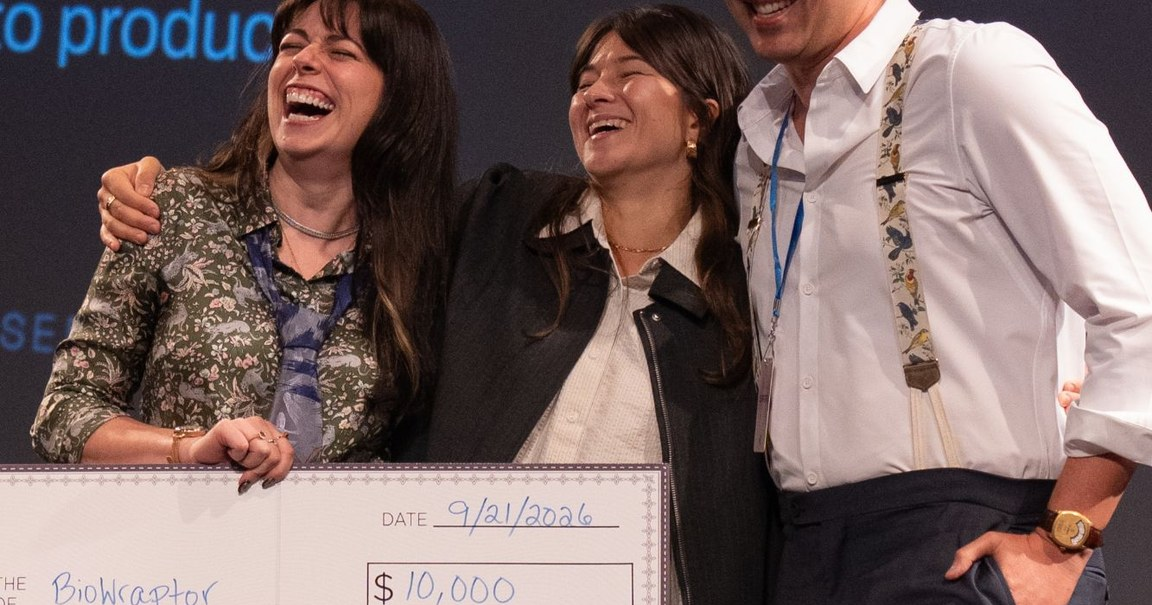
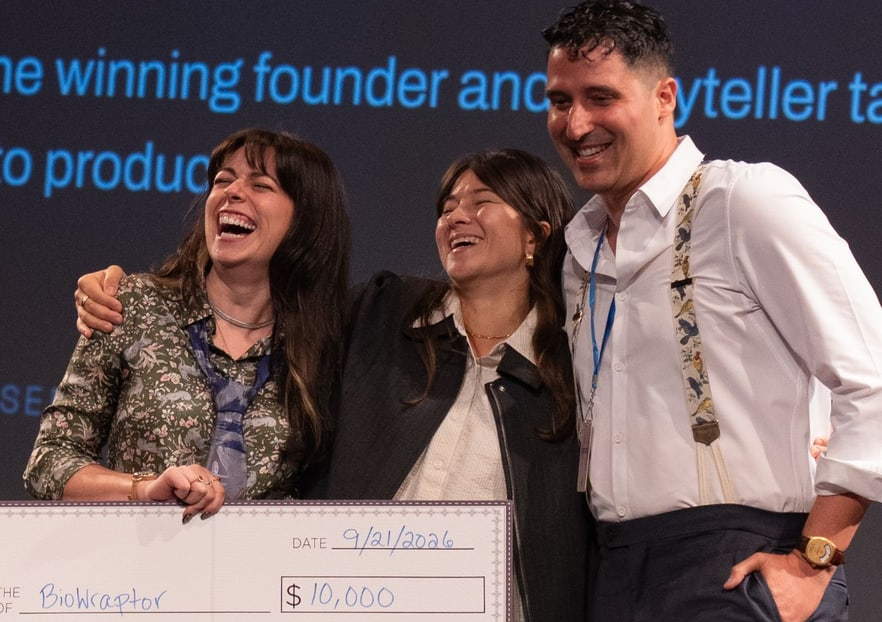
deck: slide 4 titles on two lines, slide 5 badges on one line
Slide 4: every box title is two lines with numerals ($800M+, 48%, 30%, 10,
4), and the title boxes shrink to fit, so each image box gains 26px. Box 2's
dealflow chart is now drawn in the slide (DealflowChart) instead of a PNG:
off-white panel, dark text and bars, with Direct application and Founder
referral both in orange, the 48% the title cites. Box 6 is recropped from
the full-res stage photo and shown whole on black pillars, since a cover
crop of the portrait cannot hold both Jon's face and the cheque's amount.

Slide 5: the three orange badges each sit on one line (nowrap, 29px) and
the cards widen to 834px so the longest fits.

diff --git a/public/deck/slides/slides-01-04.jsx b/public/deck/slides/slides-01-04.jsx
@@ -303,20 +303,28 @@ function PhotoCorners({ src, alt, height = 280, color = COLORS.snow }) {
 }
 
 // ============= SLIDE 4: Our Homegrown Advantages =============
+// Where Fund I's dealflow came from, share of deals, from the appendix deck.
+// Founder referrals plus direct applications are the 48% in box 2's title.
+const DEALFLOW_SOURCES = [
+  { label: "Investor referral", pct: 36 },
+  { label: "Direct application", pct: 31, highlight: true },
+  { label: "Founder referral", pct: 17, highlight: true },
+  { label: "Incubator", pct: 12 },
+  { label: "Market intelligence", pct: 2 },
+];
+const DEALFLOW_PULLED = "Q3 2026";
+
 const ADVANTAGES = [
   {
     n: "1",
-    title: "Our incubation facilities\nfostered over $800M\nin value creation",
+    title: "Our incubators fostered\n$800M+ in value creation",
     img: "assets/result-1-incubator-opt.jpg",
     objectPosition: "center 18%",
-    objectFit: "cover",
   },
   {
     n: "2",
-    title: "A brand founders love:\n30% of new dealflow comes direct.",
-    img: "assets/result-2-deal-sourcing.png",
-    objectPosition: "center",
-    objectFit: "cover",
+    title: "Brand value: 48% of new deals\ncome from founders or directs",
+    chart: DEALFLOW_SOURCES,
   },
   {
     n: "3",
@@ -324,33 +332,111 @@ const ADVANTAGES = [
     img: "assets/result-3-political-crop-opt.jpg",
     // Shifted up 20px from the centred 27% crop to keep more of the chin in frame.
     objectPosition: "center calc(27% - 20px)",
-    objectFit: "cover",
   },
   {
     n: "4",
-    title:
-      "30% MoM growth in private\nprofessional networks,\nacross major US metros",
+    title: "30% MoM growth in private\nnetworks across US metros",
     img: "assets/result-4-talent-crop-opt.jpg",
     objectPosition: "center",
-    objectFit: "cover",
   },
   {
     n: "5",
-    title:
-      "Ten different university\npartnerships, with four\ncohorts since inception",
+    title: "10 university partnerships,\n4 cohorts since inception",
     img: "assets/result-5-bench-opt.jpg",
     objectPosition: "center",
-    objectFit: "cover",
   },
   {
     n: "6",
-    title:
-      "An international film festival\nwith a focus on storytelling\nand innovation",
+    title: "Support for storytelling through\nglobal film and prize festivals",
     img: "assets/result-6-festival-award-opt.jpg",
+    // A portrait photo: shown whole (hair to the cheque's amount) on black
+    // pillars, since the landscape box cannot hold both his face and the
+    // cheque in a cover crop.
     objectPosition: "center",
-    objectFit: "cover",
+    fit: "contain",
   },
 ];
+
+// Box 2's panel: the dealflow chart drawn in the slide's own type, on an
+// off-white card so it stands apart from the dark slide.
+function DealflowChart({ rows, pulled }) {
+  const max = Math.max(...rows.map((r) => r.pct));
+  return (
+    <div
+      style={{
+        width: "100%",
+        height: "100%",
+        boxSizing: "border-box",
+        padding: "22px 26px 18px",
+        background: COLORS.snow,
+        color: COLORS.ink,
+        display: "flex",
+        flexDirection: "column",
+        fontFamily: FONT.mono,
+      }}
+    >
+      <div
+        style={{
+          fontSize: 11,
+          letterSpacing: "0.04em",
+          textTransform: "uppercase",
+          color: COLORS.graphite,
+        }}
+      >
+        Where our dealflow comes from
+      </div>
+      <div
+        style={{
+          flex: 1,
+          display: "grid",
+          gridTemplateColumns: "auto 1fr 48px",
+          alignItems: "center",
+          columnGap: 18,
+          marginTop: 10,
+        }}
+      >
+        {rows.map((r) => {
+          const color = r.highlight ? COLORS.orange : COLORS.ink;
+          return (
+            <React.Fragment key={r.label}>
+              <span style={{ fontSize: 16, color }}>{r.label}</span>
+              <span
+                style={{
+                  display: "block",
+                  height: 12,
+                  background: COLORS.fog,
+                }}
+              >
+                <span
+                  style={{
+                    display: "block",
+                    height: "100%",
+                    width: `${(r.pct / max) * 100}%`,
+                    background: r.highlight ? COLORS.orange : COLORS.graphite,
+                  }}
+                />
+              </span>
+              <span style={{ fontSize: 16, color, textAlign: "right" }}>
+                {r.pct}%
+              </span>
+            </React.Fragment>
+          );
+        })}
+      </div>
+      <div
+        style={{
+          fontSize: 9,
+          letterSpacing: "0.04em",
+          textTransform: "uppercase",
+          color: COLORS.stone,
+          textAlign: "right",
+        }}
+      >
+        Last pulled: {pulled}
+      </div>
+    </div>
+  );
+}
 
 function Slide04_HomegrownAdvantages() {
   return (
@@ -405,9 +491,9 @@ function Slide04_HomegrownAdvantages() {
                 gridTemplateColumns: "48px 1fr",
                 alignItems: "center",
                 gap: 16,
-                // Fixed to fit three title lines, so every image box in a row
-                // is the same height whatever its title's line count.
-                height: 108,
+                // Fixed to fit the two title lines every box has, so the
+                // image boxes in a row line up and get the rest of the row.
+                height: 82,
                 boxSizing: "border-box",
               }}
             >
@@ -446,23 +532,23 @@ function Slide04_HomegrownAdvantages() {
                 border: `1px solid ${COLORS.mist}`,
               }}
             >
-              <img
-                src={a.img}
-                alt=""
-                style={{
-                  ...{
+              {a.chart ? (
+                <DealflowChart rows={a.chart} pulled={DEALFLOW_PULLED} />
+              ) : (
+                <img
+                  src={a.img}
+                  alt=""
+                  style={{
                     width: "100%",
                     height: "100%",
-                    objectFit: a.objectFit,
+                    objectFit: a.fit || "cover",
                     objectPosition: a.objectPosition,
                     display: "block",
                     filter: "grayscale(0.15)",
-                    background:
-                      a.objectFit === "contain" ? COLORS.black : "transparent",
-                  },
-                  objectFit: "cover",
-                }}
-              />
+                    background: a.fit === "contain" ? COLORS.black : "none",
+                  }}
+                />
+              )}
             </div>
           </div>
         ))}

diff --git a/public/deck/slides/slides-05-08.jsx b/public/deck/slides/slides-05-08.jsx
@@ -3,7 +3,7 @@
 // ============= SLIDE 5: Early access to the best Scientific IP =============
 const SCIENTIFIC_CARDS = [
   {
-    badge: "Moats built on scientific IP,\nnot software",
+    badge: "Scientific IP moats, not software",
     logo: "assets/portfolio/logo-sofab.png",
     logoH: 56,
     date: "Oct '24 Pre-Seed",
@@ -19,7 +19,7 @@ const SCIENTIFIC_CARDS = [
     ),
   },
   {
-    badge: "Price reductions we can see, today",
+    badge: "Price reductions we can prove, today",
     logo: "assets/portfolio/logo-revivbio.png",
     logoH: 64,
     date: "Oct '23 Seed",
@@ -35,7 +35,7 @@ const SCIENTIFIC_CARDS = [
     ),
   },
   {
-    badge: "Deliver more value\nwhile demanding less input",
+    badge: "Demand less inputs, for the same or better outputs",
     centered: true,
     logo: "assets/portfolio/logo-trimagnetix.png",
     logoH: 56,
@@ -58,7 +58,7 @@ function ScientificCard({ badge, logo, logoH, date, body, centered }) {
   return (
     <div
       style={{
-        width: 781,
+        width: 834,
         position: "relative",
         display: "flex",
         flexDirection: "column",
@@ -79,11 +79,12 @@ function ScientificCard({ badge, logo, logoH, date, body, centered }) {
         <span
           style={{
             fontFamily: FONT.mono,
-            fontSize: 38,
+            // Sized so the longest badge stays on one line inside the card.
+            fontSize: 29,
             letterSpacing: "-0.06em",
             lineHeight: 1.0,
             color: COLORS.white,
-            whiteSpace: "pre-line",
+            whiteSpace: "nowrap",
           }}
         >
           {badge}
